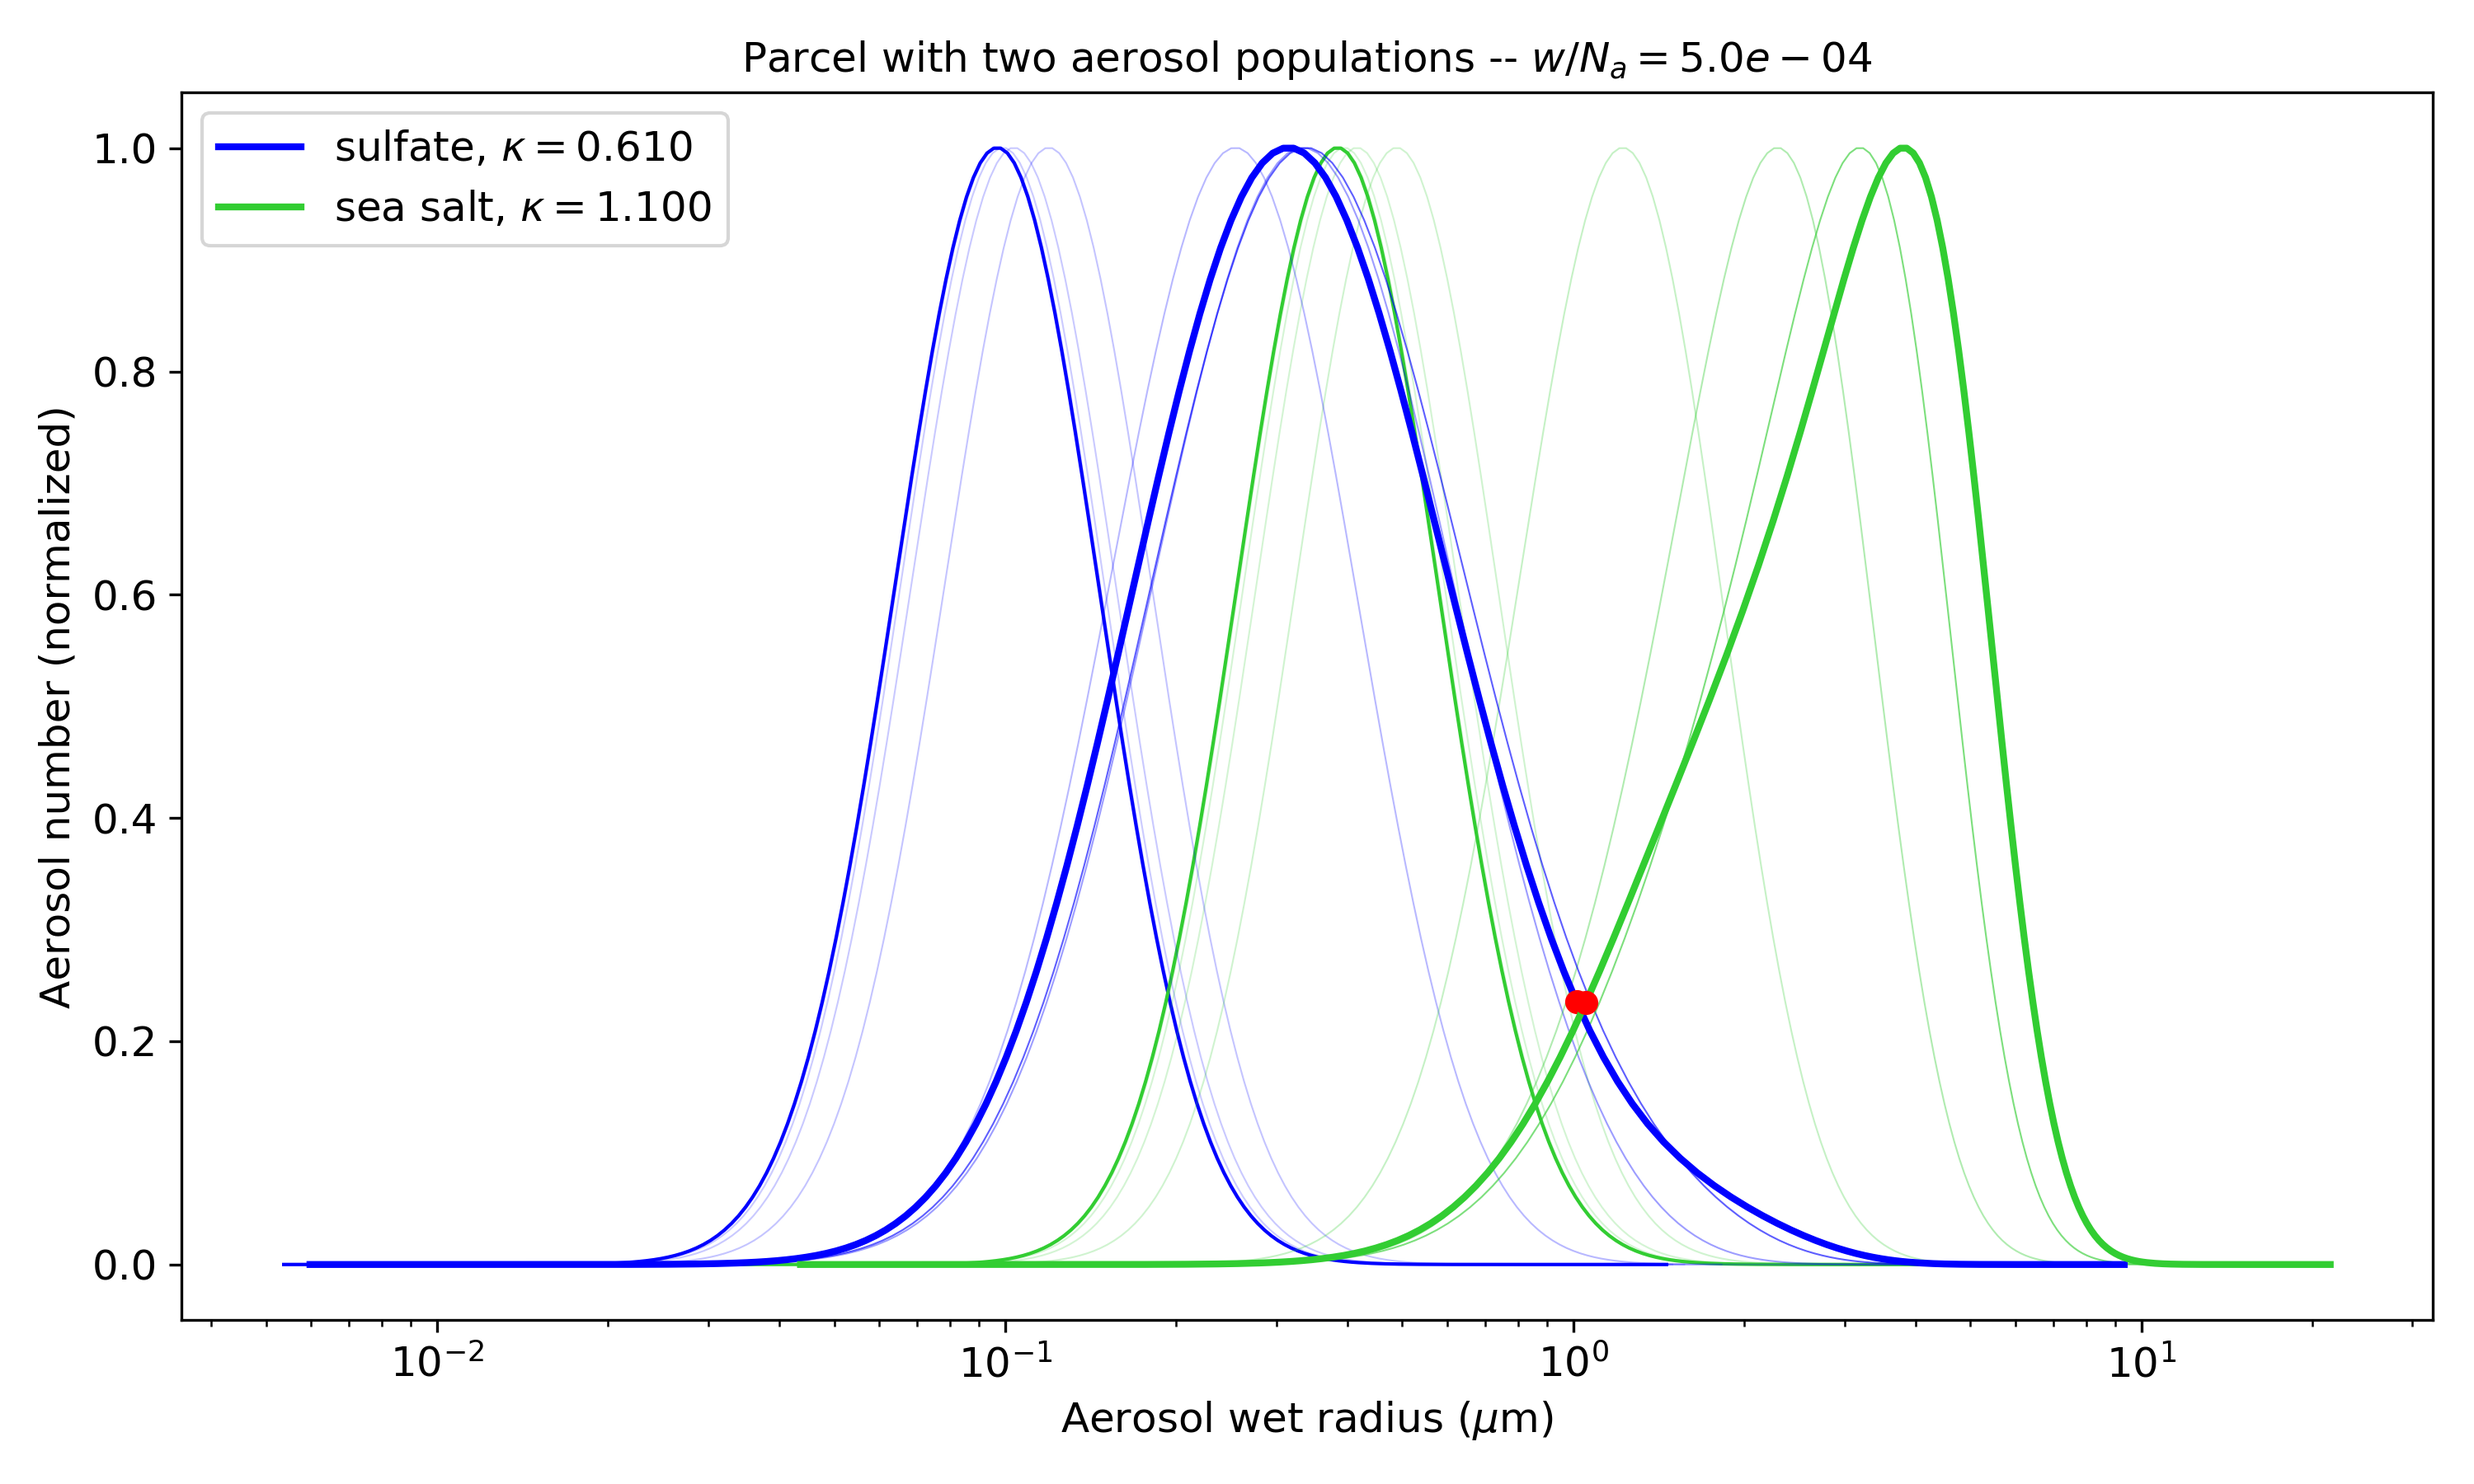
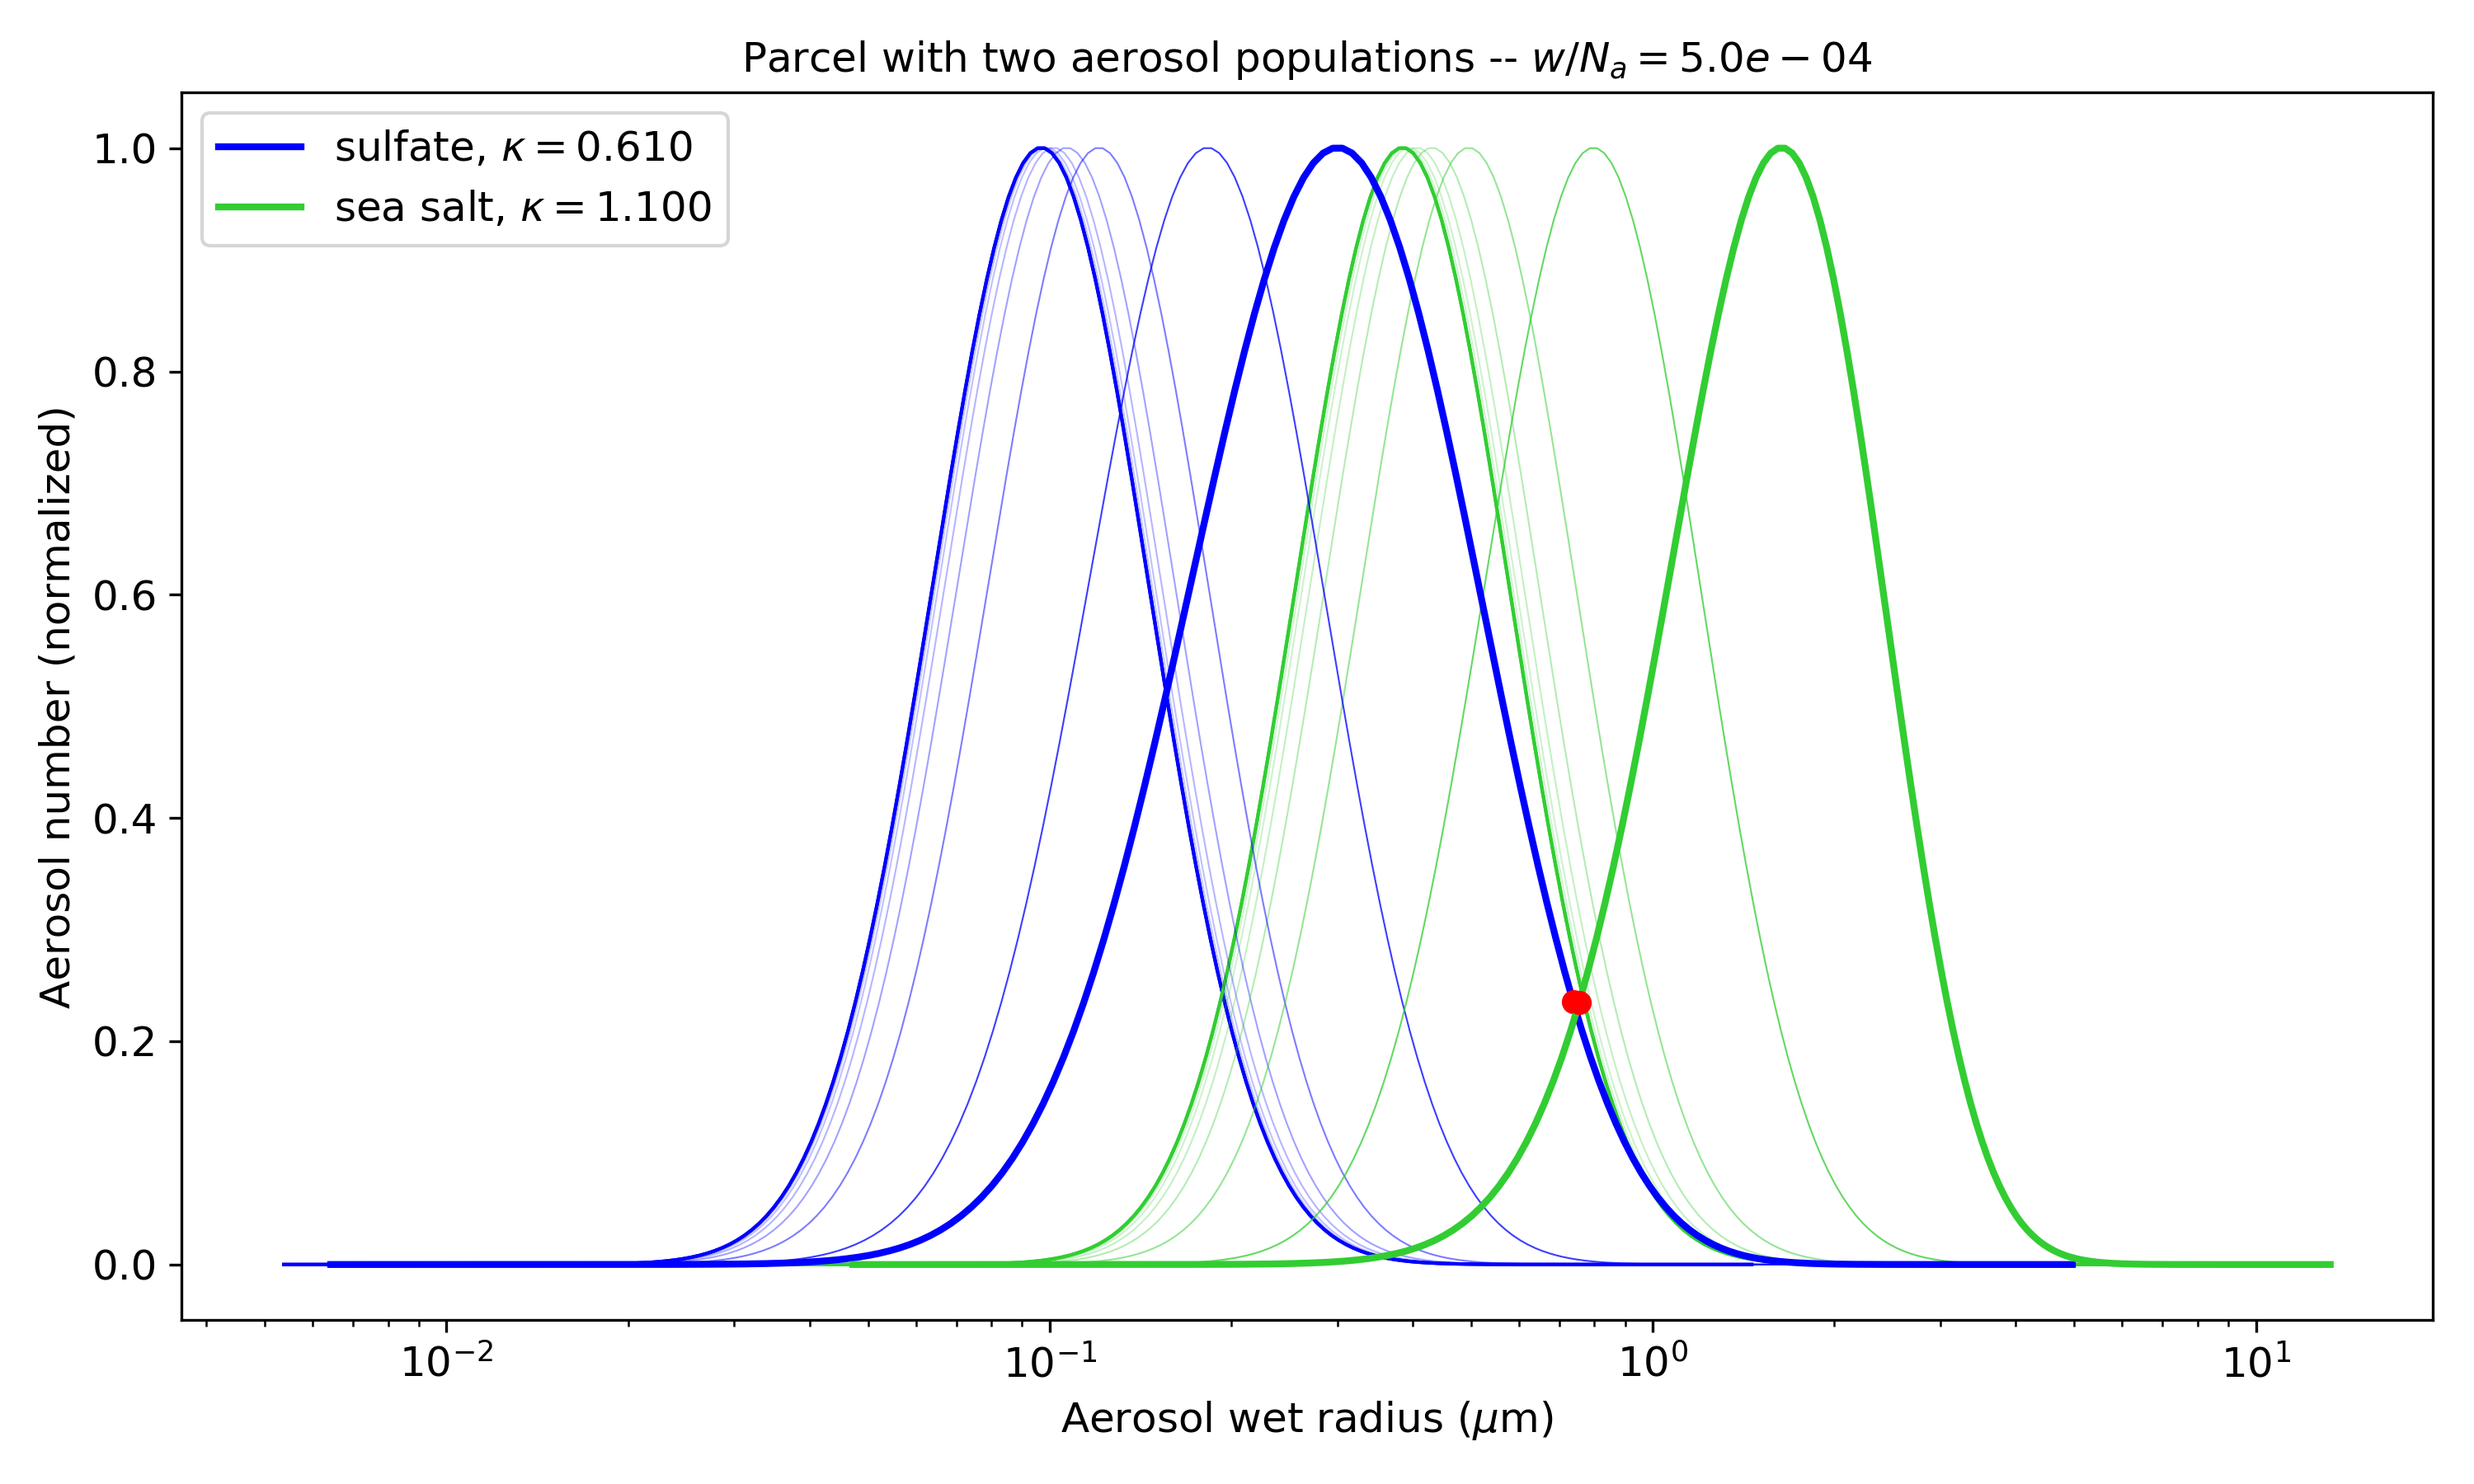
more combinations of aerosol types

diff --git a/clare/dist_interact.py b/clare/dist_interact.py
@@ -1,32 +1,34 @@
 # Suppress warnings
-import warnings 
+import warnings
 warnings.simplefilter('ignore')
 
-import pyrcel as pm
-import numpy as np
-import calculations as clc
-import aerosol_plots as aerplt
 import matplotlib.pyplot as plt
+import aerosol_plots as aerplt
+import calculations as clc
+import numpy as np
+import pyrcel as pm
 
 def main():
+    run_real_pops()
+    # run_ensemble(6)
+
+
+def run_ensemble(n):
     # aerosol type (citation)
     # prop = [name, mean radius (um), hygroscopicity=kappa]
-
-    #run_real_aerosol_pops()
-
-    mu1 = 0.1 # (um), typical range is 10 - 1000 (nm), so 0.01 - 1.0 (um)
-    kappa1 = 0.48 # typical range is 0.15 - 1.2
-    prop1 = ['name1',mu1,kappa1]
-    n = 6
-    mus = np.logspace(-2,1,n)
-    kappas = 1.5*np.logspace(-2,0,n)
+    mu1 = 0.1  # (um), typical range is 10 - 1000 (nm), so 0.01 - 1.0 (um)
+    kappa1 = 0.48  # typical range is 0.15 - 1.2
+    prop1 = ['name1', mu1, kappa1]
+    mus = np.logspace(-2, 1, n)
+    kappas = 1.5*np.logspace(-2, 0, n)
     for i in np.arange(n):
         mu2 = mus[i]
         kappa2 = kappas[i]
-        prop2 = ['name2',mu2,kappa2]
-        runtest(prop1,prop2)
+        prop2 = ['name2', mu2, kappa2]
+        runtest(prop1, prop2)
 
-def run_real_aerosol_pops():
+
+def run_real_pops():
     # aerosol type (citation)
     # prop = [name, mean radius (um), hygroscopicity=kappa]
 
@@ -35,63 +37,113 @@ def run_real_aerosol_pops():
     # sea salt aerosol (Zieger et al., 2017)
     seasalt = ['sea salt', 0.2, 1.1]
     # mineral dust (Johnson & Osborne, 2011), (Koehler et al., 2009)
-    mindust = ['mineral dust',1.3,0.045]
+    mindust = ['mineral dust', 1.3, 0.045]
     # black carbon (Wu et al., 2017), (Liu et al., 2013)
     blkcarb = ['black carbon', 0.213, 0.09]
     # fresh biomass burning (Yi, 2018)
-    freshburn = ['fresh biomass burning',0.074,0.21]
-    
-    # # aged biomass burning (Yi, 2018)
-    # ageburn = ['aged biomass burning',,0.29]
+    freshburn = ['fresh biomass burning', 0.074, 0.21]
+    # urban (Kreidenweis & Asa-Awuku, 2014).
+    urban = ['urban', 0.2, 0.2]
+    # aged biomass burning (Malm et al., 2005), (Kreidenweis & Asa-Awuku, 2014) [(Yi, 2018) = 0.29]
+    ageburn = ['aged biomass burning', 0.33, 0.04]
+
     # # nitrate
     # nit = ['nitrate']
-    # # organic 
+    # # organic (Kreidenweis & Asa-Awuku, 2014).
     # org = ['misc. organic',,0.15]
-    
-    # run experiment on known aerosol varieties
-    runtest(sulf,seasalt)
-    runtest(sulf,mindust)
-    runtest(sulf,blkcarb)
-    runtest(sulf,freshburn)
 
-    # # test
-    # prop2 = ['other,0.2,0.1]
-    # runtest(sulf,prop2)
+    aerosol_list = list([sulf, seasalt, mindust, blkcarb,
+                        urban, freshburn, ageburn])
+#     # test each aerosol type seperately
+#     for i in np.arange(len(aerosol_list)):
+#         pop = aerosol_list[i]
+#         runtest_single(pop)
+
+    # run experiment on known aerosol varieties
+    # test all combinations
+    for i in np.arange(len(aerosol_list)):
+        for j in np.arange(len(aerosol_list)):
+            if j > i:
+                print(aerosol_list[i][0], aerosol_list[j][0])
+                print(aerosol_list[i][1], aerosol_list[j][1])
+                runtest(aerosol_list[i], aerosol_list[j])
+
 
 def runtest(prop1, prop2):
     # environmental variables
-    P0 = 1e5 # Initial Pressure, Pa
+    P0 = 1e5  # Initial Pressure, Pa
     T0 = 280.   # Initial Temperature, K
     S0 = -0.15  # Initial Supersaturation, 1-RH (85% here)
 
     # regime-determining variables
-    w = 6.0 # updraft velocity (m/s)
-    N = w*2.0e3 # total particle number
+    w = 6.0  # updraft velocity (m/s)
+    N = w*2.0e3  # total particle number
 
     # initial lognormal distribution variables
     # shared variables
-    sig = 1.5 # geometric standard deviation
-    bins = 200 # number of bins to track (maybe choose this in relation to sigma)
+    sig = 1.5  # geometric standard deviation
+    # number of bins to track (maybe choose this in relation to sigma)
+    bins = 200
 
-    [name1,mu1,kappa1] = prop1
-    aer1 = pm.AerosolSpecies(name1, pm.Lognorm(mu=mu1, sigma=sig, N=N), kappa=kappa1, bins=bins)
+    [name1, mu1, kappa1] = prop1
+    aer1 = pm.AerosolSpecies(name1, pm.Lognorm(
+        mu=mu1, sigma=sig, N=N), kappa=kappa1, bins=bins)
 
-    [name2,mu2,kappa2] = prop2
-    aer2 = pm.AerosolSpecies(name2, pm.Lognorm(mu=mu2, sigma=sig, N=N), kappa=kappa2, bins=bins)
+    [name2, mu2, kappa2] = prop2
+    aer2 = pm.AerosolSpecies(name2, pm.Lognorm(
+        mu=mu2, sigma=sig, N=N), kappa=kappa2, bins=bins)
 
     initial_aerosols = [aer1, aer2]
 
-    dt = 1.0 # timestep (s)
-    h_end = 5e2 # end altitude (m)
-    t_end = h_end/w # end time (s)
+    dt = 1.0  # timestep (s)
+    h_end = 5e2  # end altitude (m)
+    t_end = h_end/w  # end time (s)
 
-    model = pm.ParcelModel(initial_aerosols, w, T0, S0, P0, console=False, accom=0.5)
+    model = pm.ParcelModel(initial_aerosols, w, T0, S0,
+                           P0, console=False, accom=0.5)
     parcel_trace, aerosol_traces = model.run(t_end, dt, solver='cvode')
     aer1_arr = aerosol_traces[name1].values
     aer2_arr = aerosol_traces[name2].values
 
-    aerplt.dist_int(w, N, [aer1.Nis,aer2.Nis], [aer1_arr,aer2_arr], [name1,name2], [kappa1,kappa2], [mu1,mu2])
-    aerplt.dist_compete(w, N, [aer1.Nis,aer2.Nis], [aer1_arr,aer2_arr], [name1,name2], [kappa1,kappa2], [mu1,mu2])
+    aerplt.dist_int(w, N, [aer1.Nis, aer2.Nis], [aer1_arr, aer2_arr], [
+                    name1, name2], [kappa1, kappa2], [mu1, mu2])
+    aerplt.dist_compete(w, N, [aer1.Nis, aer2.Nis], [aer1_arr, aer2_arr], [
+                        name1, name2], [kappa1, kappa2], [mu1, mu2])
+
+
+def runtest_single(prop1):
+    # environmental variables
+    P0 = 1e5  # Initial Pressure, Pa
+    T0 = 280.   # Initial Temperature, K
+    S0 = -0.15  # Initial Supersaturation, 1-RH (85% here)
+
+    # regime-determining variables
+    w = 6.0  # updraft velocity (m/s)
+    N = w*2.0e3  # total particle number
+
+    # initial lognormal distribution variables
+    # shared variables
+    sig = 1.5  # geometric standard deviation
+    # number of bins to track (maybe choose this in relation to sigma)
+    bins = 200
+
+    [name1, mu1, kappa1] = prop1
+    aer1 = pm.AerosolSpecies(name1, pm.Lognorm(
+        mu=mu1, sigma=sig, N=N), kappa=kappa1, bins=bins)
+
+    initial_aerosols = [aer1]
+
+    dt = 1.0  # timestep (s)
+    h_end = 5e2  # end altitude (m)
+    t_end = h_end/w  # end time (s)
+
+    model = pm.ParcelModel(initial_aerosols, w, T0, S0,
+                           P0, console=False, accom=0.5)
+    parcel_trace, aerosol_traces = model.run(t_end, dt, solver='cvode')
+    aer1_arr = aerosol_traces[name1].values
+
+    #aerplt.dist_int(w, N, [aer1.Nis], [aer1_arr], [name1], [kappa1], [mu1])
+    aerplt.dist_compete(w, N, [aer1.Nis], [aer1_arr], [name1], [kappa1], [mu1])
 
 
 if __name__ == "__main__":

diff --git a/clare/test_aerosol_competition.py b/clare/test_aerosol_competition.py
@@ -1,0 +1,15 @@
+# Suppress warnings
+import warnings
+warnings.simplefilter('ignore')
+
+import matplotlib.pyplot as plt
+import aerosol_plots as aerplt
+import calculations as clc
+import numpy as np
+import pyrcel as pm
+
+def main():
+    print("main")
+
+if __name__ == "__main__":
+    main()
